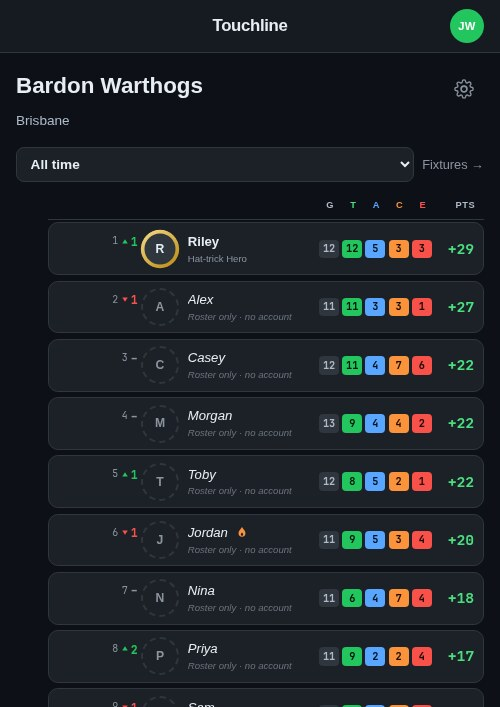
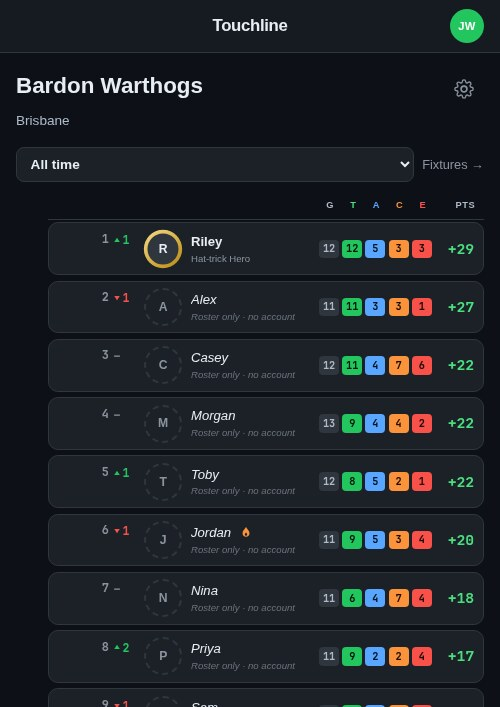
Fix the leaderboard rank column: too small, too close, misaligned
Three things wrong with .lcard-rank on the board variant, all from the
same cause. It right-aligned the rank number against the avatar
(justify-content: flex-end), which packed the number tight against
the badge and pushed the slack to the *left* of the number instead —
an empty gap that looked like a mistake because it was one. Flipped to
flex-start: the number now sits at a consistent inset from the card's
edge, and the leftover space reads as ordinary gutter before the
avatar rather than unexplained void before the digit.

The number itself was also smaller (0.62rem) than the movement digit
beside it (0.72rem) — backwards, given it's the primary label. Bumped
to 0.74rem and bolded.

Separately, rows holding position rendered a plain "–" character
where a change renders a drawn SVG arrow; a dash glyph's line-box
doesn't share the arrows' metrics, so those rows visibly floated
higher than the rest. Replaced it with a drawn dash icon in the same
8x8 box as the arrows, so every row aligns off the same baseline
regardless of which state it's in.

Reshot the leaderboard screenshot against the fix.

Claude-Session: https://claude.ai/code/session_01X4psTpE1hZQN6ViVdroZTj

diff --git a/app/assets/stylesheets/application.css b/app/assets/stylesheets/application.css
@@ -756,10 +756,11 @@ h2 { font-size: 1.1rem; font-weight: 600; margin-bottom: 0.75rem; }
   left: 0.4rem; top: 50%;
   transform: translateY(-50%);
   font-family: var(--mono);
-  font-size: 0.62rem;
+  font-size: 0.74rem;
+  font-weight: 700;
   color: var(--gray-400);
   font-variant-numeric: tabular-nums;
-  width: 0.9rem;
+  width: 1.1rem;
   text-align: right;
   z-index: 2;
 }
@@ -1048,12 +1049,13 @@ h2 { font-size: 1.1rem; font-weight: 600; margin-bottom: 0.75rem; }
 .ladder--board .lcard { padding-left: 2.9rem; }
 .ladder--board .ladder-head { padding-left: 2.9rem; }
 .ladder--board .lcard-rank {
-  left: 0.35rem;
-  width: 2.3rem;
+  left: 0.4rem;
+  width: 2.5rem;
   display: flex;
   align-items: center;
-  justify-content: flex-end;
-  gap: 0.2rem;
+  justify-content: flex-start;
+  text-align: left;
+  gap: 0.25rem;
 }
 .ladder-head .sp-rank { width: 0; }
 .ladder-head .h-g { color: var(--gray-600); }

diff --git a/app/helpers/application_helper.rb b/app/helpers/application_helper.rb
@@ -76,6 +76,15 @@ module ApplicationHelper
     <svg width="8" height="8" viewBox="0 0 16 16" aria-hidden="true"><path d="M8 12.5 2.5 4h11z" fill="currentColor"/></svg>
   SVG
 
+  # Same box as the arrows above, so "no change" sits at the same height as a
+  # climb or a fall rather than at wherever a dash character's own glyph
+  # happens to sit — a plain "–" text node drifted high against the arrows'
+  # baseline, which was the whole row's tell that it wasn't the same kind of
+  # thing.
+  MOVE_DASH_ICON = <<~SVG.html_safe
+    <svg width="8" height="8" viewBox="0 0 16 16" aria-hidden="true"><path d="M3 8h10" stroke="currentColor" stroke-width="2.4" stroke-linecap="round"/></svg>
+  SVG
+
   # Marks a Player scoring in their last Leaderboard::HOT_STREAK games or more.
   def hot_streak_flame(row)
     return unless row.hot?
@@ -89,8 +98,8 @@ module ApplicationHelper
   # someone with no previous position, and a board full of NEW on the opening
   # game of a season would say nothing at all. The two still differ on hover.
   def rank_movement(row)
-    return tag.span("–", class: "move", title: "First game on this board") if row.new_entry?
-    return tag.span("–", class: "move", title: "No change") if row.movement.zero?
+    return tag.span(MOVE_DASH_ICON, class: "move", title: "First game on this board") if row.new_entry?
+    return tag.span(MOVE_DASH_ICON, class: "move", title: "No change") if row.movement.zero?
 
     up = row.movement.positive?
     label = "#{up ? 'Up' : 'Down'} #{row.movement.abs}"

diff --git a/test/helpers/application_helper_test.rb b/test/helpers/application_helper_test.rb
@@ -80,7 +80,7 @@ class ApplicationHelperTest < ActionView::TestCase
   test "holding a position renders a dash rather than an arrow" do
     html = rank_movement(board_row(movement: 0))
 
-    assert_includes html, "–"
+    assert_includes html, "<svg"
     assert_includes html, %(title="No change")
     assert_not_includes html, "move-up"
     assert_not_includes html, "move-down"
@@ -89,8 +89,17 @@ class ApplicationHelperTest < ActionView::TestCase
   test "a player with no previous position renders a dash, distinguished on hover" do
     html = rank_movement(board_row(movement: nil))
 
-    assert_includes html, "–"
+    assert_includes html, "<svg"
     assert_includes html, %(title="First game on this board")
+  end
+
+  test "the dash is drawn, not a text character, so it sits at the same height as an arrow" do
+    dash = rank_movement(board_row(movement: 0))
+    climb = rank_movement(board_row(movement: 2))
+
+    assert_not_includes dash, "–"
+    assert_includes dash, "<svg"
+    assert_includes climb, "<svg"
   end
 
   test "the flame appears only once the run reaches the threshold" do
